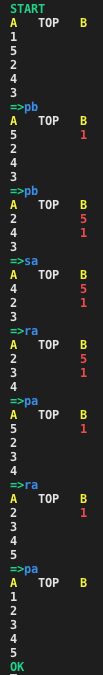
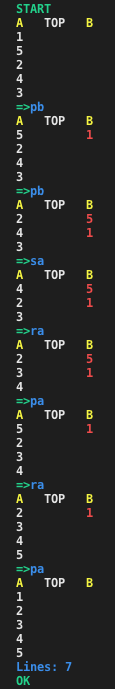
new img and print lines for visual mode

diff --git a/lib/count_rules.c b/lib/count_rules.c
@@ -1,0 +1,28 @@
+/* ************************************************************************** */
+/*                                                                            */
+/*                                                        :::      ::::::::   */
+/*   count_rules.c                                      :+:      :+:    :+:   */
+/*                                                    +:+ +:+         +:+     */
+/*   By: vkurkela <vkurkela@student.hive.fi>        +#+  +:+       +#+        */
+/*                                                +#+#+#+#+#+   +#+           */
+/*   Created: 2020/02/29 17:02:27 by vkurkela          #+#    #+#             */
+/*   Updated: 2020/02/29 17:07:15 by vkurkela         ###   ########.fr       */
+/*                                                                            */
+/* ************************************************************************** */
+
+#include "lib.h"
+
+int count_rules(t_rules *rules)
+{
+    int		size;
+	t_rules *current;
+
+	current = rules;
+	size = 0;
+	while (current)
+	{
+		current = current->next;
+		size++;
+	}
+	return (size);
+}

diff --git a/checker_files/execute_rules.c b/checker_files/execute_rules.c
@@ -6,7 +6,7 @@
 /*   By: vkurkela <vkurkela@student.hive.fi>        +#+  +:+       +#+        */
 /*                                                +#+#+#+#+#+   +#+           */
 /*   Created: 2020/02/13 12:18:37 by vkurkela          #+#    #+#             */
-/*   Updated: 2020/02/28 22:01:16 by vkurkela         ###   ########.fr       */
+/*   Updated: 2020/02/29 17:13:48 by vkurkela         ###   ########.fr       */
 /*                                                                            */
 /* ************************************************************************** */
 
@@ -41,6 +41,9 @@ static void	check_swap(t_stack **root_a, t_stack **root_b, t_rules *rules)
 
 void		execute_rules(t_stack **root_a, t_stack **root_b, t_rules *rules)
 {
+	int	size;
+
+	size = count_rules(rules);
 	print_start(*root_a, *root_b);
 	while (rules)
 	{
@@ -51,5 +54,6 @@ void		execute_rules(t_stack **root_a, t_stack **root_b, t_rules *rules)
 		print_steps(*root_a, *root_b, rules->data);
 		rules = rules->next;
 	}
+	print_lines(*root_a, size);
 	free(rules);
 }

diff --git a/lib/lib.h b/lib/lib.h
@@ -6,7 +6,7 @@
 /*   By: vkurkela <vkurkela@student.hive.fi>        +#+  +:+       +#+        */
 /*                                                +#+#+#+#+#+   +#+           */
 /*   Created: 2020/02/10 10:11:14 by vkurkela          #+#    #+#             */
-/*   Updated: 2020/02/28 21:33:42 by vkurkela         ###   ########.fr       */
+/*   Updated: 2020/02/29 17:11:15 by vkurkela         ###   ########.fr       */
 /*                                                                            */
 /* ************************************************************************** */
 
@@ -74,4 +74,6 @@ void					push_args(int arg, char **argc, t_stack **root_a, char stack);
 void					free_tab(char **tab);
 void					print_start(t_stack *root_a, t_stack *root_b);
 void					print_steps(t_stack *root_a, t_stack *root_b, char *step);
+int						count_rules(t_rules *rules);
+void					print_lines(t_stack *root_a, int size);
 #endif

diff --git a/lib/print_stack.c b/lib/print_stack.c
@@ -6,11 +6,20 @@
 /*   By: vkurkela <vkurkela@student.hive.fi>        +#+  +:+       +#+        */
 /*                                                +#+#+#+#+#+   +#+           */
 /*   Created: 2020/02/13 21:01:45 by vkurkela          #+#    #+#             */
-/*   Updated: 2020/02/29 08:48:36 by vkurkela         ###   ########.fr       */
+/*   Updated: 2020/02/29 17:15:36 by vkurkela         ###   ########.fr       */
 /*                                                                            */
 /* ************************************************************************** */
 
 #include "lib.h"
+
+void		print_lines(t_stack *root_a, int size)
+{
+	if ((root_a))
+	{
+		if ((root_a)->flag)
+			ft_printf(BOLDBLUE "Lines: %d\n" RESET, size);
+	}
+}
 
 void		print_start(t_stack *root_a, t_stack *root_b)
 {
